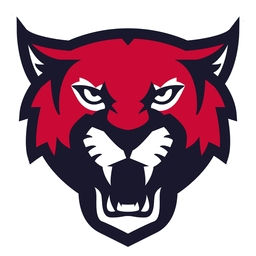
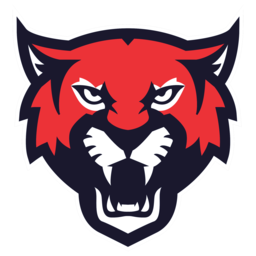
clean up and areplaced image of new cat
- tidied up css, moving all header objects together
- tidied up a spurious </p>
- added updated cat image

Changed region(s): [[0.125, 0.125, 0.875, 0.625]]

diff --git a/index.html b/index.html
@@ -73,8 +73,6 @@
         <div class="col-lg-4 ml-auto">
           <p class="lead">Tonbridge Baseball are seeking new players for their MIXED adult team. If you would like to try a different and fun sport, this is your opportunity!</p>
             <p class="lead">No experience necessary, training will be given – just bring your enthusiasm! Equipment will be loaned by the club for you to use.</p>
-          
-          </p>
         </div>
         <div class="col-lg-4 mr-auto">
             <p class="lead">OPEN training sessions take place on Wednesday evenings at 6pm From April - September and Sunday evenings between January - March.</p>

diff --git a/css/freelancer.css b/css/freelancer.css
@@ -191,6 +191,12 @@ header.masthead h2 {
   font-family: 'Lato';
 }
 
+#header
+    {
+  background: url("/img/bball-dark.jpg") no-repeat center center;
+  background-size: cover;
+}
+
 @media (min-width: 992px) {
   header.masthead {
     padding-top: calc(var(--updown) + 106px);
@@ -321,10 +327,4 @@ a.inline {
 .btn-secondary:hover, .btn-secondary:focus, .btn-secondary:active {
   background-color: #1a252f;
   border-color: #1a252f;
-}
-
-#header
-    {
-  background: url("/img/bball-dark.jpg") no-repeat center center;
-  background-size: cover;
 }
